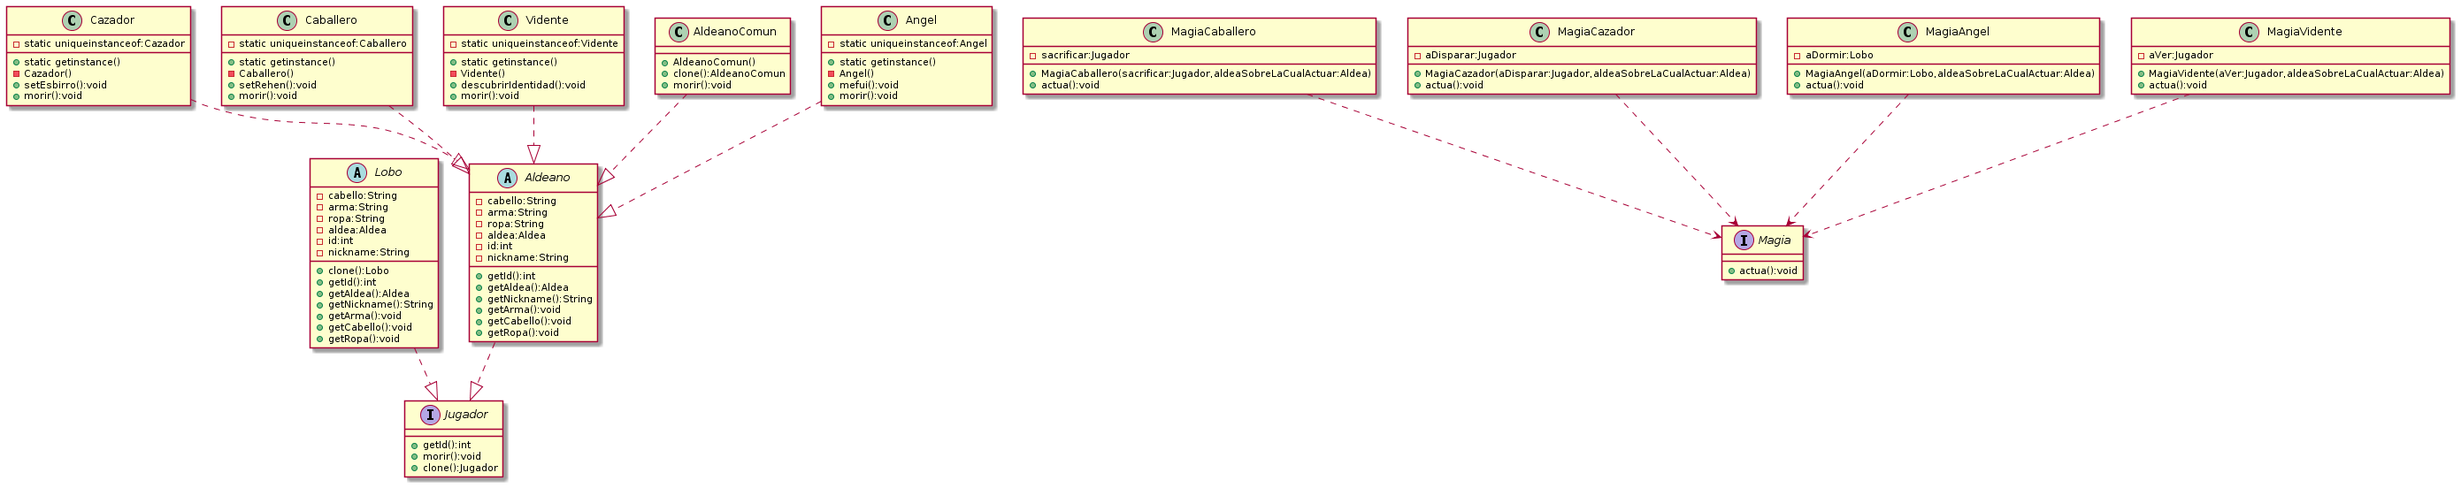
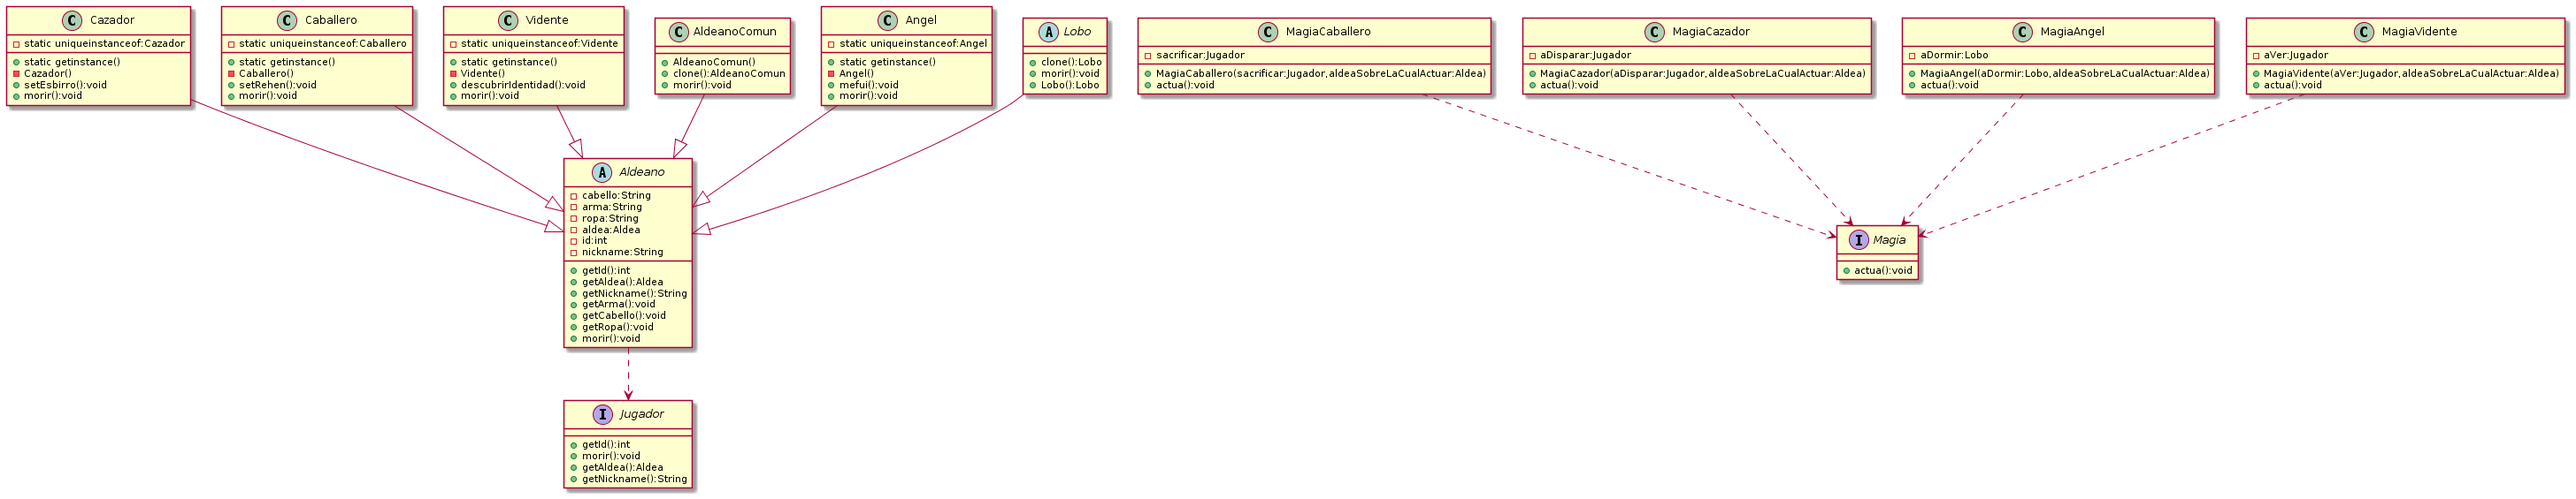
Corregida funcionalidad y modificada estructura y el diagrama.

diff --git a/Lobo.java b/Lobo.java
@@ -1,61 +1,23 @@
 
-public abstract class Lobo implements Jugador,Cloneable{
+public class Lobo extends Aldeano{
 
-    private String arma;
-    private String ropa;
-    private String cabello;
-    private Aldea aldea;
-    private int id;
-    private String nickname;
+
+    /**
+    *Contructor de la clase.
+    */
+    public Lobo(){
+        arma="Colmillos y Garras";
+        ropa="Pelaje.";
+        cabello="Pelaje";
+    }
 
     @Override
-    public abstract Jugador clone();
-
-    /**
-    *Metodo que obtiene el id del Aldeano.
-    *@return el id
-    */
-    public int getId(){
-        return this.id;
+    public Lobo clone(){
+        return null;
     }
 
-    /**
-    *Metodo que obtiene la aldea a la que pertenece el Aldeano.
-    *@return la aldea.
-    */
-    public Aldea getAldea(){
-        return this.aldea;
-    }
-
-    /**
-    *Metodo para obtener el nombre del Aldeano.
-    *@return el nombre.
-    */
-    public String getNickname(){
-        return this.nickname;
-    }
 
     @Override
     public void morir(){}
 
-    /**
-    *Metodo para obtener su ropa.
-    */
-    public void getRopa(){
-        System.out.println(this.ropa);
-    }
-
-    /**
-    *Metodo para obtener su arma.
-    */
-    public void getArma(){
-        System.out.println(this.arma);
-    }
-
-    /**
-    *Metodo para obtener el cabello.
-    */
-    public void getCabello(){
-        System.out.println(this.cabello);
-    }
 }

diff --git a/Jugador.java b/Jugador.java
@@ -7,13 +7,19 @@ public interface Jugador{
     public int getId();
 
     /**
+    *Metodo que obtiene la aldea a la que pertenece el Aldeano.
+    *@return la aldea.
+    */
+    public Aldea getAldea();
+
+    /**
+    *Metodo para obtener el nombre del Aldeano.
+    *@return el nombre.
+    */
+    public String getNickname();
+
+    /**
     *Metodo para cuando un personaje muera.
     */
     public void morir();
-
-    /**
-    *Metodo para clonar que devuelve un jugador.
-    *@return un Jugador.
-    *
-    public Jugador clone();*/
 }

diff --git a/main.java b/main.java
@@ -6,10 +6,18 @@ public class main{
         Aldeano moni=Vidente.getinstance();
         Aldeano dos=Cazador.getinstance();
         Aldeano tres=Caballero.getinstance();
+        Aldeano cuatro=new Lobo();
 
         uno.getArma();
         moni.getRopa();
         dos.getCabello();
         tres.getId();
+        cuatro.getRopa();
+        uno.getCabello();
+        moni.getArma();
+        dos.getCabello();
+        tres.getArma();
+        cuatro.getArma();
+
     }
 }

diff --git a/Aldeano.java b/Aldeano.java
@@ -13,18 +13,12 @@ public abstract class Aldeano implements Jugador{
         return this.id;
     }
 
-    /**
-    *Metodo que obtiene la aldea a la que pertenece el Aldeano.
-    *@return la aldea.
-    */
+    @Override
     public Aldea getAldea(){
         return this.aldea;
     }
 
-    /**
-    *Metodo para obtener el nombre del Aldeano.
-    *@return el nombre.
-    */
+    @Override
     public String getNickname(){
         return this.nickname;
     }

diff --git a/Aldea.java b/Aldea.java
@@ -2,6 +2,6 @@ public class Aldea{
 
     public void matar(Aldeano aMatar,Aldeano asesino){
         aMatar.morir();
-        System.out.println(aMatar.getNickname()+" fue asesinado por "+/**asesino.getNickname()*/+"con "+asesino.getArma());
+        System.out.println(aMatar.getNickname()+" fue asesinado por "/**asesino.getNickname()*/+"con "+asesino.getArma());
     }
 }

diff --git a/AldeanoComun.java b/AldeanoComun.java
@@ -4,7 +4,7 @@ public class AldeanoComun extends Aldeano{
     *Metodo para crear hombres lobos con prototype.
     *@return un prototype de lobo.
     */
-    public Jugador clone(){
+    public AldeanoComun clone(){
         /**Object clone=null;
 
         try{
